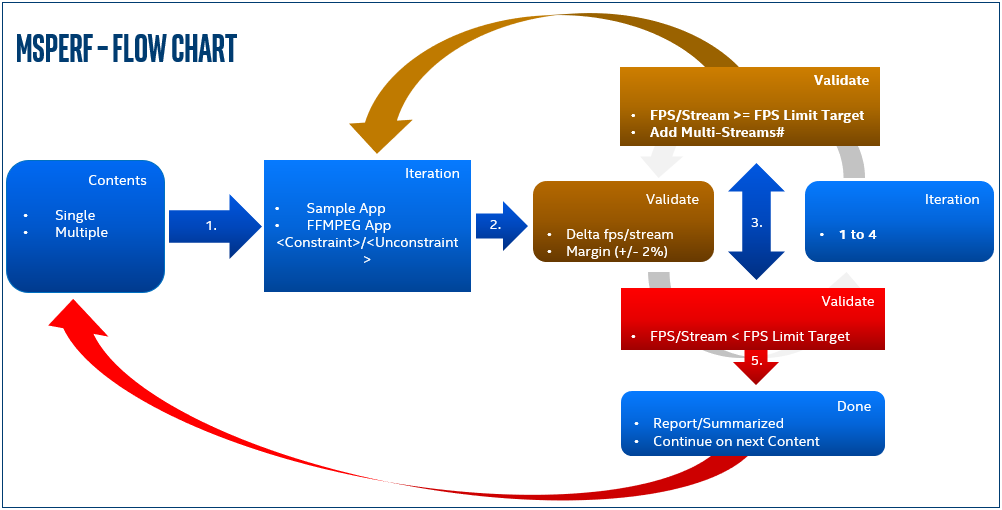
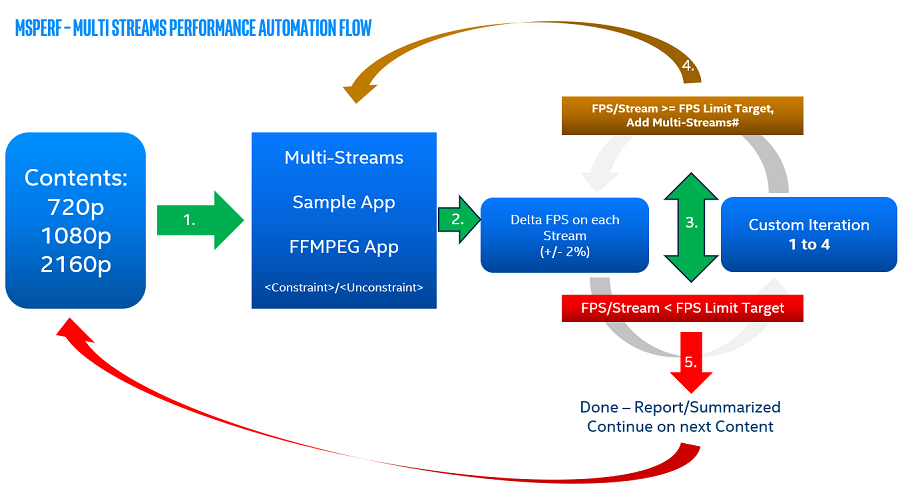
MSPerf: Main performance page and manual, add example charts

diff --git a/measure/performance/readme.rst b/measure/performance/readme.rst
@@ -20,63 +20,43 @@ Configuration
 Content
 =======
 
-Media Clips to be allocated into specific single directory e.g. below::
-
-    cd ~/forMediaDelivery/
-
-Command to run with directory of all clips::
-
-    python3 MSPerf.py ~/forMediaDelivery/
-
-Command to run with a file::
-
-    python3 MSPerf.py ~/forMediaDelivery/CrowdRun.hevc
-
 Command to run with all clips with specific output path:
 
     python3 MSPerf.py ~/forMediaDelivery/ -o ~/MultiStreamPerformance_2020WW20/
-	
-Command to run with all clips with specific output path, and save the console output into log file:
 
-    python3 MSPerf.py ~/forMediaDelivery/ -o ~/MultiStreamPerformance_2020WW20/ -log MultiStreamPerformance_2020WW20_log.txt
+Command to run with all clips with specific output path, with skipping Application::
 
-Command to run with all clips with specific output path, and save the console output into log file, with skipping Application::
-
-    python3 MSPerf.py ~/forMediaDelivery/ --skip-msdk -o ~/MultiStreamPerformance_2020WW20/ -log MultiStreamPerformance_2020WW20_log.txt
+    python3 MSPerf.py ~/forMediaDelivery/ --skip-msdk -o ~/MultiStreamPerformance_2020WW20/
 	or
-	python3 MSPerf.py ~/forMediaDelivery/ --skip-ffmpeg -o ~/MultiStreamPerformance_2020WW20/ -log MultiStreamPerformance_2020WW20_log.txt
+	python3 MSPerf.py ~/forMediaDelivery/ --skip-ffmpeg -o ~/MultiStreamPerformance_2020WW20/
 
-Command to run with all clips with specific output path, and save the console output into log file, with verbose/debug::
+Command to run with all clips with specific output path, with verbose/debug and with additional Tools CPU/GPU analysis::
 
-    python3 MSPerf.py ~/forMediaDelivery/ -v -o ~/MultiStreamPerformance_2020WW20/ -log MultiStreamPerformance_2020WW20_log.txt
+    python3 MSPerf.py ~/forMediaDelivery/ -v --enable-debugfs -o ~/MultiStreamPerformance_2020WW20/
 
-Command to run with all clips with specific output path, and save the console output into log file, with verbose/debug and with additional Tools CPU/GPU analysis::
+Command to run with all clips with specific output path, with verbose/debug, Disabling LINUX PERF Tools::
 
-    python3 MSPerf.py ~/forMediaDelivery/ -v --enable-debugfs -o ~/MultiStreamPerformance_2020WW20/ -log MultiStreamPerformance_2020WW20_log.txt
+    python3 MSPerf.py ~/forMediaDelivery/ -v --skip-perf -o ~/MultiStreamPerformance_2020WW20/
 
-Command to run with all clips with specific output path, and save the console output into log file, with verbose/debug, Disabling LINUX PERF Tools::
+Command to run with all clips with specific output path, with verbose/debug, Disabling just the Trace capture of LINUX PERF Tools::
 
-    python3 MSPerf.py ~/forMediaDelivery/ -v --skip-perf -o ~/MultiStreamPerformance_2020WW20/ -log MultiStreamPerformance_2020WW20_log.txt
+    python3 MSPerf.py ~/forMediaDelivery/ -v --skip-perf-trace -o ~/MultiStreamPerformance_2020WW20/
 
-Command to run with all clips with specific output path, and save the console output into log file, with verbose/debug, Disabling just the Trace capture of LINUX PERF Tools::
+Command to run with all clips with specific output path, with skipping Application, and specific encoder codec::
 
-    python3 MSPerf.py ~/forMediaDelivery/ -v --skip-perf-trace -o ~/MultiStreamPerformance_2020WW20/ -log MultiStreamPerformance_2020WW20_log.txt
-
-Command to run with all clips with specific output path, and save the console output into log file, with skipping Application, and specific encoder codec::
-
-    python3 MSPerf.py ~/forMediaDelivery/ --skip-msdk -c HEVC -o ~/MultiStreamPerformance_2020WW20/ -log MultiStreamPerformance_2020WW20_log.txt
+    python3 MSPerf.py ~/forMediaDelivery/ --skip-msdk -c HEVC -o ~/MultiStreamPerformance_2020WW20/
 	or
-	python3 MSPerf.py ~/forMediaDelivery/ --skip-msdk --codec HEVC -o ~/MultiStreamPerformance_2020WW20/ -log MultiStreamPerformance_2020WW20_log.txt
+	python3 MSPerf.py ~/forMediaDelivery/ --skip-msdk --codec HEVC -o ~/MultiStreamPerformance_2020WW20/
 
-Command to run with all clips with specific output path, and save the console output into log file, with skipping Application, and specific encoder codec, startStream::
+Command to run with all clips with specific output path, with skipping Application, and specific encoder codec, startStream::
 
-    python3 MSPerf.py ~/forMediaDelivery/ --skip-msdk -c HEVC -s 1080p:2 -o ~/MultiStreamPerformance_2020WW20/ -log MultiStreamPerformance_2020WW20_log.txt
+    python3 MSPerf.py ~/forMediaDelivery/ --skip-msdk -c HEVC -s 1080p:2 -o ~/MultiStreamPerformance_2020WW20/
 	or
-	python3 MSPerf.py ~/forMediaDelivery/ --skip-msdk --codec HEVC -s 720p:4,1080p:3,2160p:2 -o ~/MultiStreamPerformance_2020WW20/ -log MultiStreamPerformance_2020WW20_log.txt
+	python3 MSPerf.py ~/forMediaDelivery/ --skip-msdk --codec HEVC -s 720p:4,1080p:3,2160p:2 -o ~/MultiStreamPerformance_2020WW20/
 
-Command to run with all clips with specific output path, and save the console output into log file, with skipping Application, and specific encoder codec, endStream::
+Command to run with all clips with specific output path, with skipping Application, and specific encoder codec, endStream::
 
-    python3 MSPerf.py ~/forMediaDelivery/ --skip-msdk -c HEVC -e 3 -o ~/MultiStreamPerformance_2020WW20/ -log MultiStreamPerformance_2020WW20_log.txt
+    python3 MSPerf.py ~/forMediaDelivery/ --skip-msdk -c HEVC -e 3 -o ~/MultiStreamPerformance_2020WW20/
 
 
 ChangeLog

diff --git a/doc/performance.rst b/doc/performance.rst
@@ -3,43 +3,89 @@ Video Performance
 
 .. contents::
 
-Video Performance Metrics
--------------------------
+Video Performance Assessment Methodology
+----------------------------------------
 
-Key metrics we collect with out performance measurement scripts are:
+In this document we describe the methodology which is used to measure
+performance of Intel® Media SDK `Sample Multi Transcode  <https://github.com/Intel-Media-SDK/MediaSDK/blob/master/doc/samples/readme-multi-transcode_linux.md>`_
+and `ffmpeg-qsv <https://trac.ffmpeg.org/wiki/Hardware/QuickSync>`_
+(Intel® Media SDK integration into FFmpeg). A `video performance measuring tool <man/measure-perf.asciidoc>`_
+which implements this methodology is provided as a part of Media
+Delivery Software Stack. In addition, a `quality measuring tool <man/measure-quality.asciidoc>`_ is
+provided for allowing users to evaluate video quality (see `quality methodology <quality.rst>`_ documentation).
 
-* Peak Frame per Second (FPS)
+Key performance metrics we collect are:
+
 * Peak Concurrent Number of Sessions
+* Peak Frames Per Second (FPS)
 
-There is a bunch of other metrics (like CPU and GPU utilization) we
+There are many other metrics (like CPU and GPU utilization) we
 collect to assist in performance investigations and debug:
 
-* Runtime
-* FPS/session
-* Session#
+* Application run time
 * CPU-utilization%
 * GPU-Utilization%
-* Memory-Footprint/Utilization%
-* Frequency trace
+* Memory footprint and utilization%
+* GPU frequency timeline data
 
-and some more. It is possible to fine-tune the tool to enable/disable
-some metrics collection during the measurement. For details see
-`measure-perf <doc/man/measure-perf.asciidoc>`_ manual page.
+With the `measure-perf <doc/man/measure-perf.asciidoc>` tool it is possible to
+to enable/disable some metrics collection during the measurement.
 
-Multi Streams Performance
--------------------------
+Multi-Stream Performance
+************************
 
 .. image:: pic/MSPerf_automation_flow.png
 
-Above picture illustates Multi Stream Performance measurement flow. This is
+The above picture illustrates multi-stream Performance measurement flow. This is
 iterative process where we run predefined command lines (point [1] on the
 pic.) and increase number of concurent sessions (point [3] on the pic.) if
 all the sessions can be run at realtime on the current iteration.
 
+The goal of the measurement is to obtain data similar to the one showed on
+the below picture:
+
+.. image:: pic/MSPerf_MultiStreamPerformance_example.png
+
+Here we can compare achieved number of cuncurent sessions (density) for
+different resulutions and different setups where setups could be different
+different machines, different encoding seetings, different encoders, etc.
+
+Single-Stream Performance
+*************************
+
+Looking into single stream performance we evaluate performance if individual
+workload. The key metric to collect here is workload FPS. Effectively, the
+single stream performance data always accomponies multi-stream performance
+measurements. The picture below illustrates what we are looking for
+single stream.
+
+.. image:: pic/MSPerf_SingleStreamPerformance_example.png
+
+Performance Monitoring and Debug Data
+*************************************
+
+There are a number of metrics which are highly useful for performance
+monitoring and debug. The below picture gives a good example summary:
+
+.. image:: pic/MSPerf_CPU_GPU_Utilization_example.png
+
+These metrics allow to check whether workload bottleneck is related to CPU
+or particular GPU engine. If this data does not highlight the bottleneck,
+but gives a hint of GPU under utilization, try to look into further details.
+One of the pinpoints might be memory. We are evaluating memory footprint for
+this reason - see below example.
+
+.. image:: pic/MSPerf_MemoryFootprint_example.png
+
+Eventually all the above data is useful in comparison for different
+workloads settings and system setups.
+
 Bitrates
 --------
 
-Coding bitrates for H.264/AVC video performance assessment:
+Coding bitrates for video performance assessment are selected as a
+subset of bitrates used in `quality measuring methodology <quality.rst>`_.
+For H.264/AVC we use:
 
 +------------+---------------+-----------------+
 | Resolution | Setting       | Bitrates (Mb/s) |
@@ -74,7 +120,7 @@ Coding bitrates for H.265/HEVC video performance assessment:
 |            +---------------+-----------------+
 |            | High          | 7.5             |
 +------------+---------------+-----------------+
-	
+
 
 Command Lines
 -------------
@@ -82,7 +128,7 @@ Command Lines
 In the following sections you can find command lines used for high quality H.264/AVC and H.265/HEVC video
 transccoding with Intel® Media SDK `Sample Multi Transcode (SMT) <https://github.com/Intel-Media-SDK/MediaSDK/blob/master/doc/samples/readme-multi-transcode_linux.md>`_
 and `ffmpeg-qsv <https://trac.ffmpeg.org/wiki/Hardware/QuickSync>`_ (Intel® Media SDK integration
-into FFmpeg).
+into FFmpeg) which we use in performance assessments.
 
 Intel Media SDK sample-multi-transcode
 --------------------------------------
